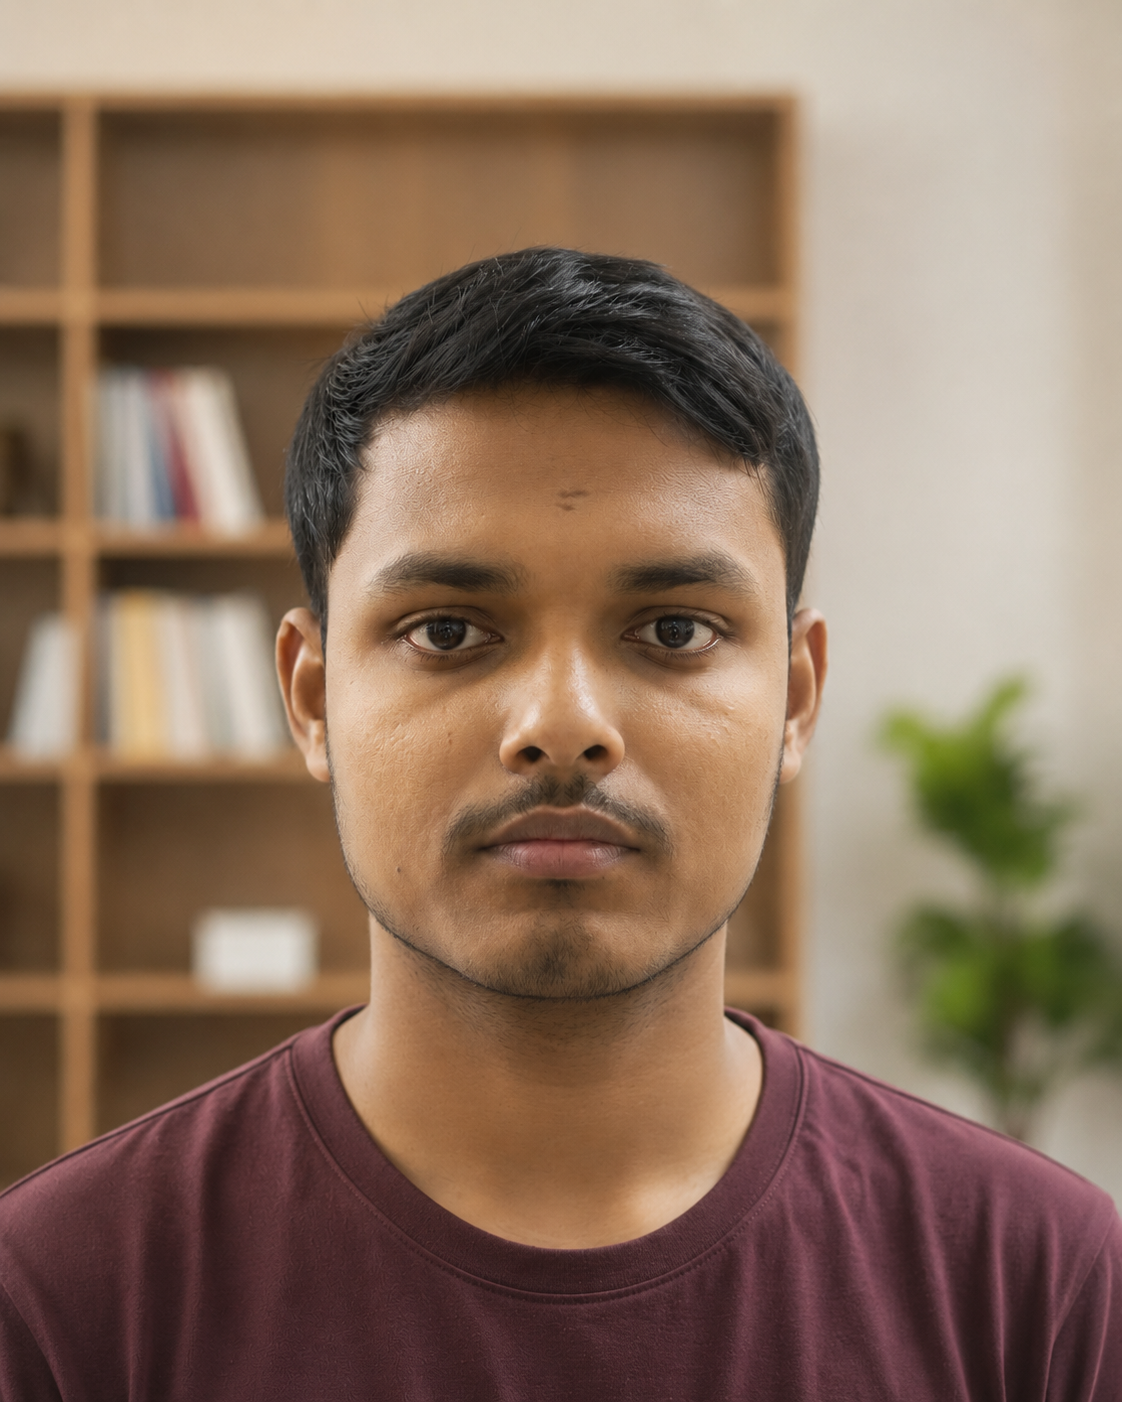
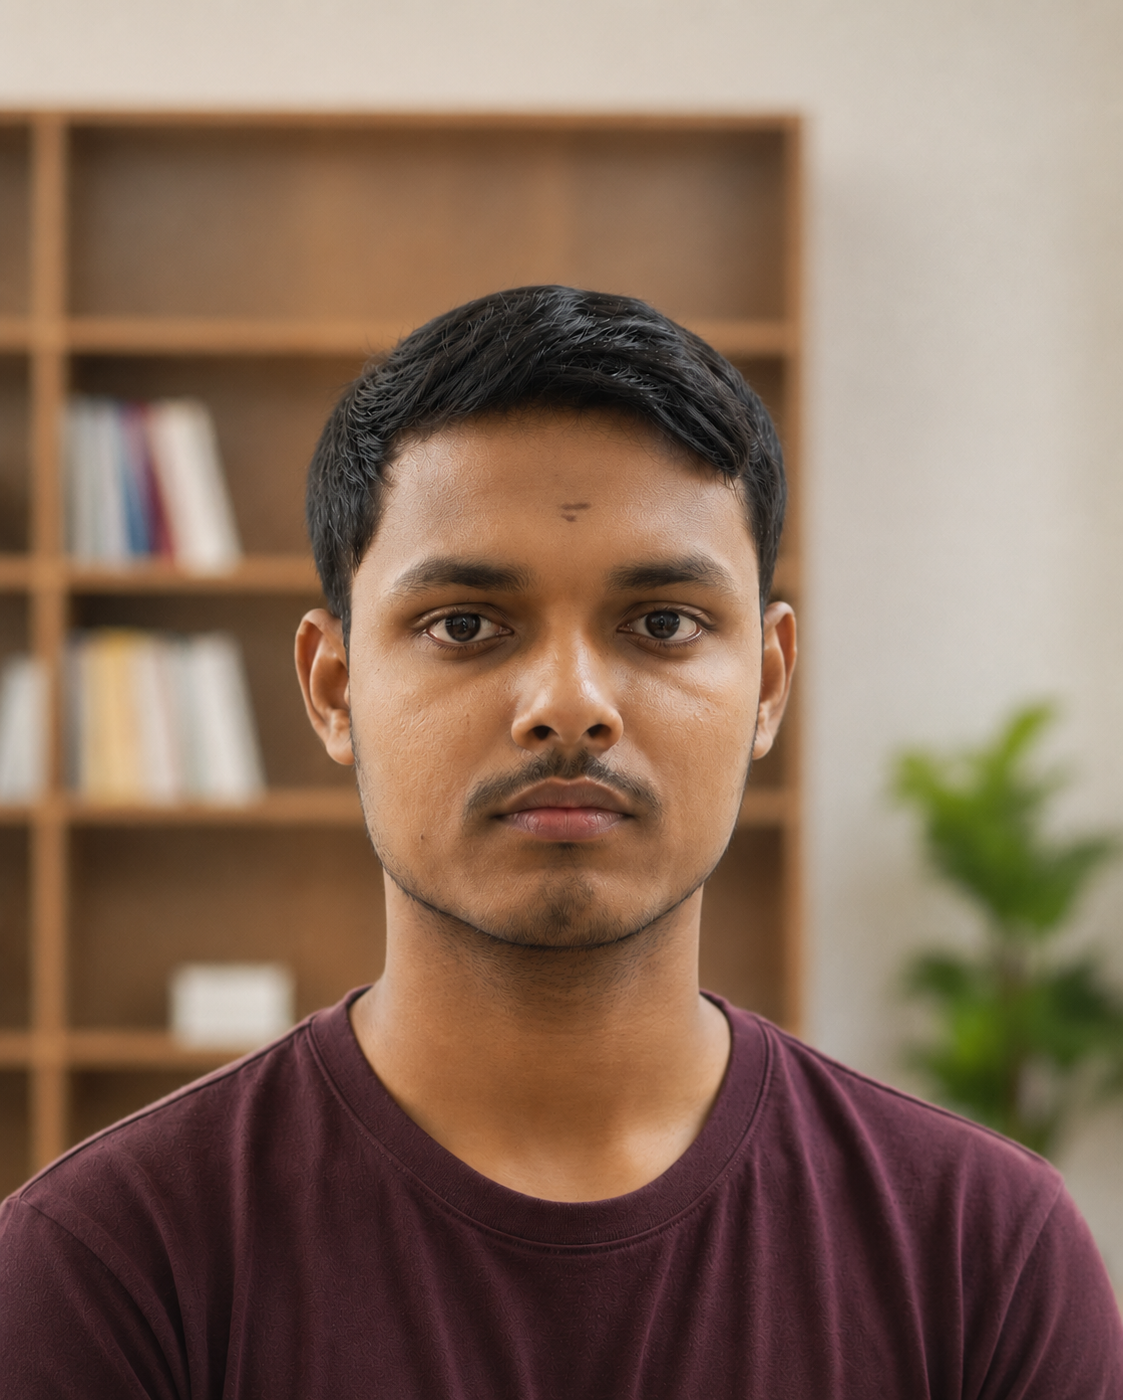
update

diff --git a/index.html b/index.html
@@ -286,7 +286,7 @@ nav ul{
 
 <section class="selfimg" id="home">
 
-<img src="Images/selfimg1.png" alt="Profile">
+<img src="Images/selfimg.png" alt="Profile">
 
 <h1>Hello, I'm <span>Raj Shree</span></h1>
 